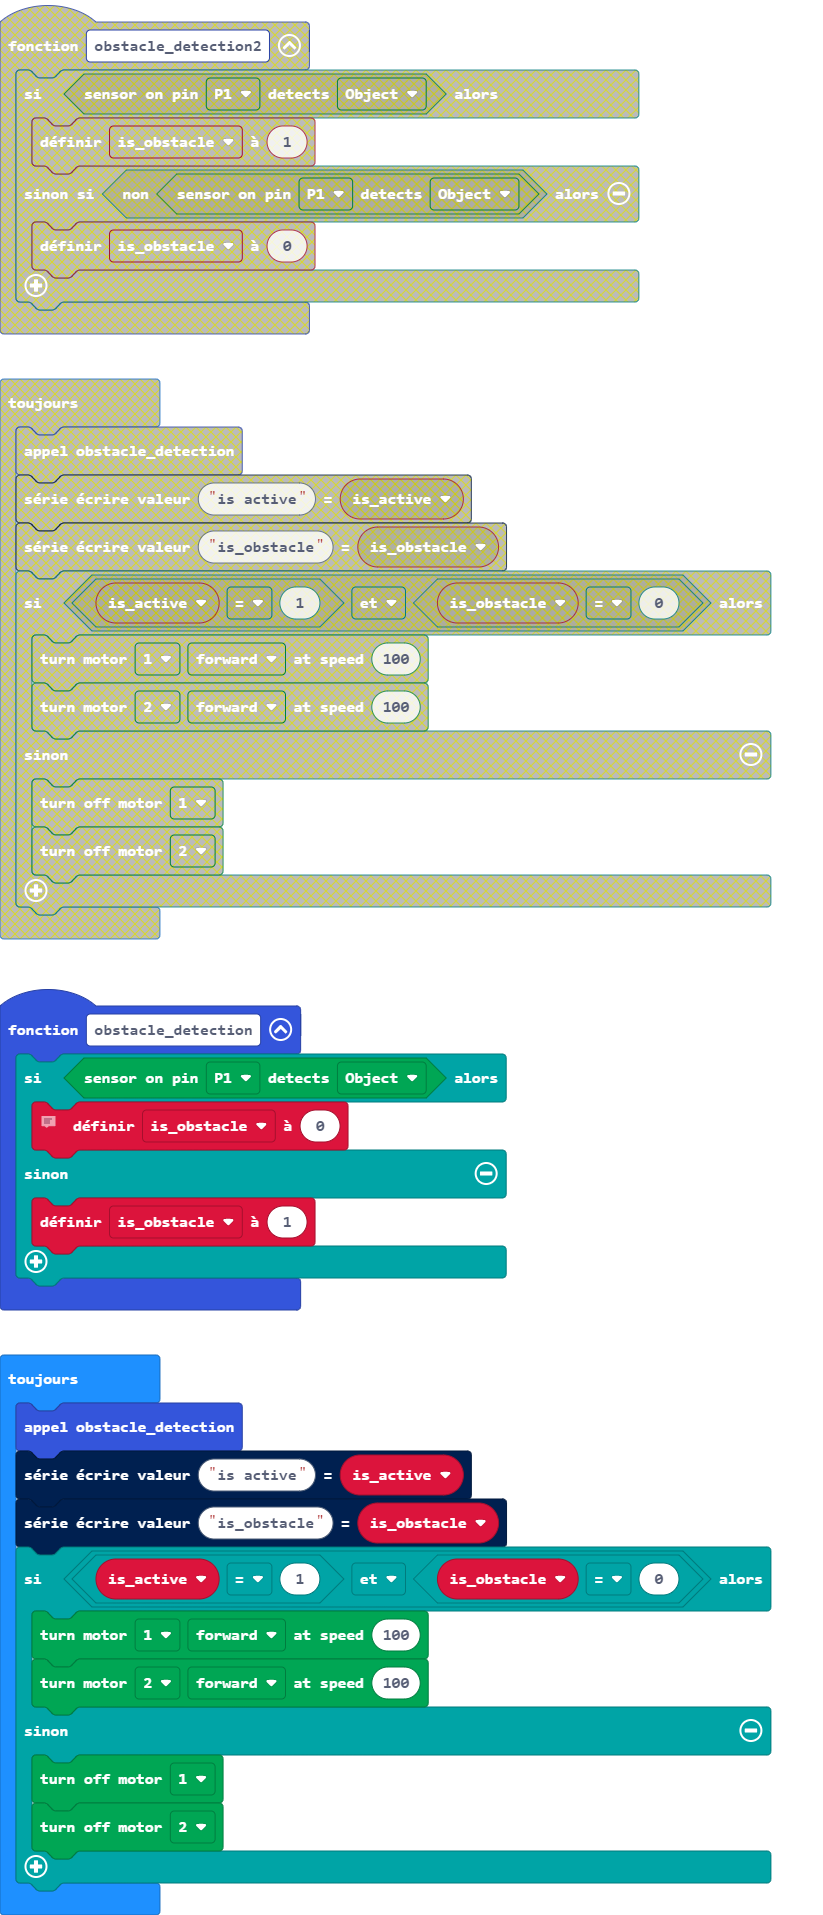
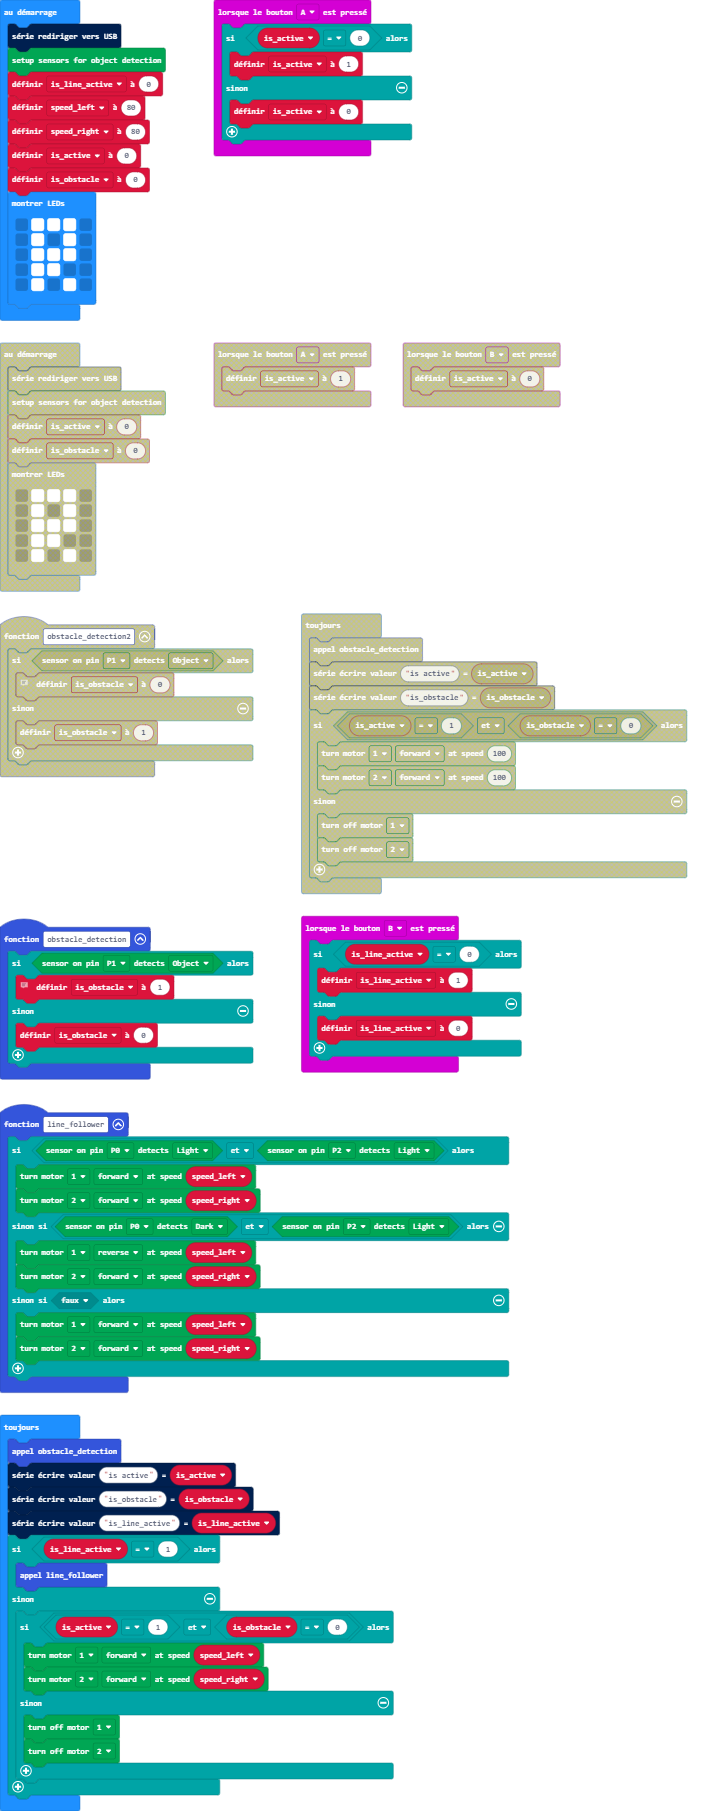
Add : line_follower and var to manage the speed of each motor.

diff --git a/main.ts b/main.ts
@@ -1,21 +1,47 @@
 input.onButtonPressed(Button.A, function () {
-    is_active = 1
+    if (is_active == 0) {
+        is_active = 1
+    } else {
+        is_active = 0
+    }
 })
+function line_follower () {
+    if (Kitronik_Clip_Detector.sensorDigitalDetection(Kitronik_Clip_Detector.PinSelection.P0, Kitronik_Clip_Detector.LightSelection.Light) && Kitronik_Clip_Detector.sensorDigitalDetection(Kitronik_Clip_Detector.PinSelection.P2, Kitronik_Clip_Detector.LightSelection.Light)) {
+        kitronik_klip_motor.motorOn(kitronik_klip_motor.Motors.Motor1, kitronik_klip_motor.MotorDirection.Forward, speed_left)
+        kitronik_klip_motor.motorOn(kitronik_klip_motor.Motors.Motor2, kitronik_klip_motor.MotorDirection.Forward, speed_right)
+    } else if (Kitronik_Clip_Detector.sensorDigitalDetection(Kitronik_Clip_Detector.PinSelection.P0, Kitronik_Clip_Detector.LightSelection.Dark) && Kitronik_Clip_Detector.sensorDigitalDetection(Kitronik_Clip_Detector.PinSelection.P2, Kitronik_Clip_Detector.LightSelection.Light)) {
+        kitronik_klip_motor.motorOn(kitronik_klip_motor.Motors.Motor1, kitronik_klip_motor.MotorDirection.Reverse, speed_left)
+        kitronik_klip_motor.motorOn(kitronik_klip_motor.Motors.Motor2, kitronik_klip_motor.MotorDirection.Forward, speed_right)
+    } else if (false) {
+        kitronik_klip_motor.motorOn(kitronik_klip_motor.Motors.Motor1, kitronik_klip_motor.MotorDirection.Forward, speed_left)
+        kitronik_klip_motor.motorOn(kitronik_klip_motor.Motors.Motor2, kitronik_klip_motor.MotorDirection.Forward, speed_right)
+    }
+}
 input.onButtonPressed(Button.B, function () {
-    is_active = 0
+    if (is_line_active == 0) {
+        is_line_active = 1
+    } else {
+        is_line_active = 0
+    }
 })
 function obstacle_detection () {
     if (Kitronik_Clip_Detector.sensorDigitalDetection(Kitronik_Clip_Detector.PinSelection.P1, Kitronik_Clip_Detector.LightSelection.Objct)) {
-        // je ne comprends pas pourquoi la détection est inversée surement un problème de câblage
-        is_obstacle = 0
-    } else {
+        // je ne comprends pas pourquoi la détection est inversée
         is_obstacle = 1
+    } else {
+        is_obstacle = 0
     }
 }
 let is_obstacle = 0
 let is_active = 0
+let speed_right = 0
+let speed_left = 0
+let is_line_active = 0
 serial.redirectToUSB()
 Kitronik_Clip_Detector.setSensorToDetectObjects()
+is_line_active = 0
+speed_left = 80
+speed_right = 80
 is_active = 0
 is_obstacle = 0
 basic.showLeds(`
@@ -29,11 +55,16 @@ basic.forever(function () {
     obstacle_detection()
     serial.writeValue("is active", is_active)
     serial.writeValue("is_obstacle", is_obstacle)
-    if (is_active == 1 && is_obstacle == 0) {
-        kitronik_klip_motor.motorOn(kitronik_klip_motor.Motors.Motor1, kitronik_klip_motor.MotorDirection.Forward, 100)
-        kitronik_klip_motor.motorOn(kitronik_klip_motor.Motors.Motor2, kitronik_klip_motor.MotorDirection.Forward, 100)
+    serial.writeValue("is_line_active", is_line_active)
+    if (is_line_active == 1) {
+        line_follower()
     } else {
-        kitronik_klip_motor.motorOff(kitronik_klip_motor.Motors.Motor1)
-        kitronik_klip_motor.motorOff(kitronik_klip_motor.Motors.Motor2)
+        if (is_active == 1 && is_obstacle == 0) {
+            kitronik_klip_motor.motorOn(kitronik_klip_motor.Motors.Motor1, kitronik_klip_motor.MotorDirection.Forward, speed_left)
+            kitronik_klip_motor.motorOn(kitronik_klip_motor.Motors.Motor2, kitronik_klip_motor.MotorDirection.Forward, speed_right)
+        } else {
+            kitronik_klip_motor.motorOff(kitronik_klip_motor.Motors.Motor1)
+            kitronik_klip_motor.motorOff(kitronik_klip_motor.Motors.Motor2)
+        }
     }
 })

diff --git a/main.py b/main.py
@@ -3,6 +3,14 @@ def on_button_pressed_a():
     is_active = 1
 input.on_button_pressed(Button.A, on_button_pressed_a)
 
+def line_follower():
+    if True:
+        pass
+    elif False:
+        pass
+    elif False:
+        pass
+
 def on_button_pressed_b():
     global is_active
     is_active = 0
@@ -20,6 +28,8 @@ is_obstacle = 0
 is_active = 0
 serial.redirect_to_usb()
 Kitronik_Clip_Detector.set_sensor_to_detect_objects()
+speed_left = 80
+speed_right = 80
 is_active = 0
 is_obstacle = 0
 basic.show_leds("""
@@ -37,10 +47,10 @@ def on_forever():
     if is_active == 1 and is_obstacle == 0:
         kitronik_klip_motor.motor_on(kitronik_klip_motor.Motors.MOTOR1,
             kitronik_klip_motor.MotorDirection.FORWARD,
-            100)
+            speed_left)
         kitronik_klip_motor.motor_on(kitronik_klip_motor.Motors.MOTOR2,
             kitronik_klip_motor.MotorDirection.FORWARD,
-            100)
+            speed_right)
     else:
         kitronik_klip_motor.motor_off(kitronik_klip_motor.Motors.MOTOR1)
         kitronik_klip_motor.motor_off(kitronik_klip_motor.Motors.MOTOR2)
